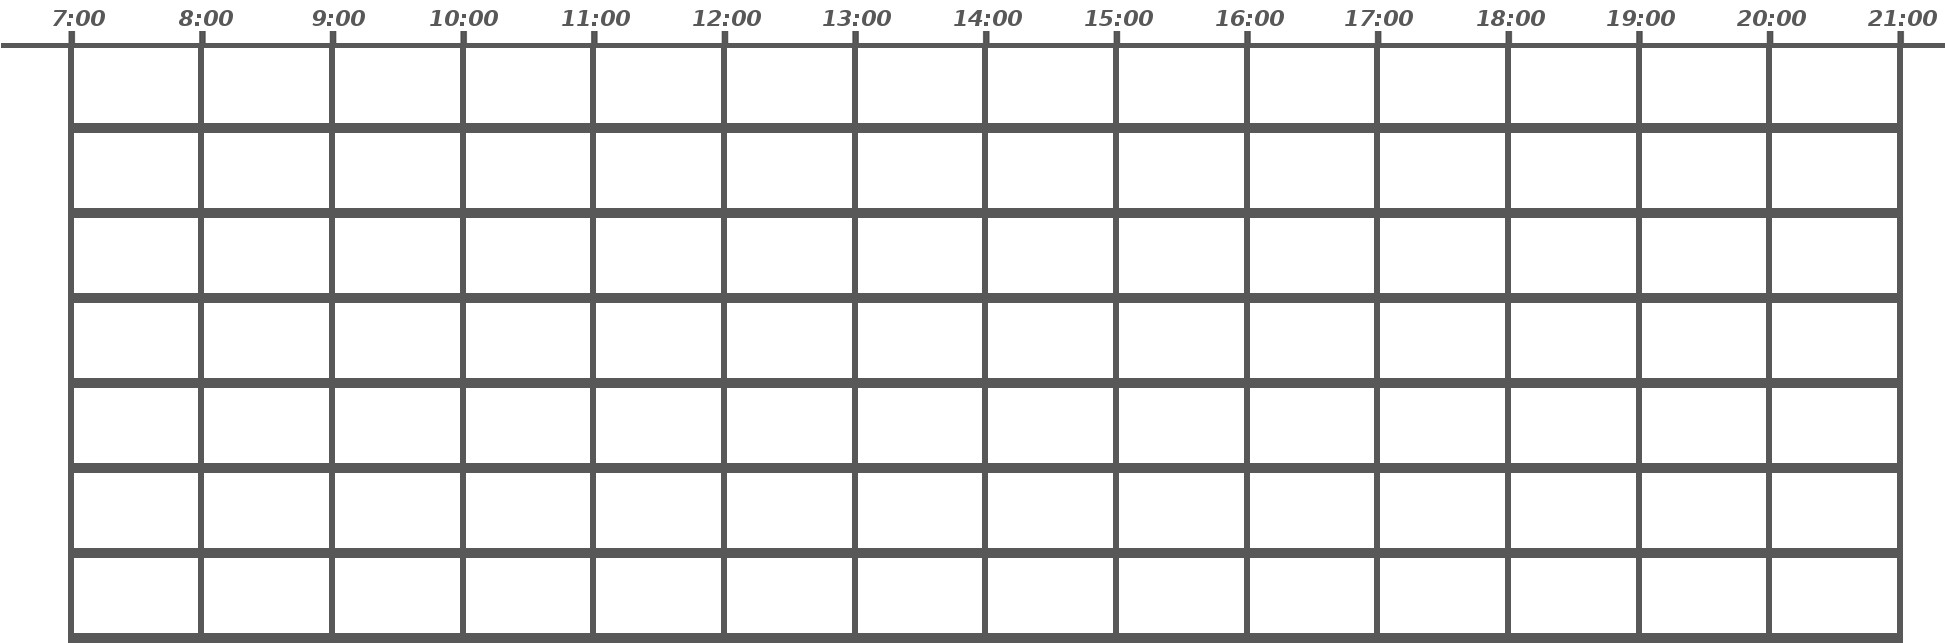
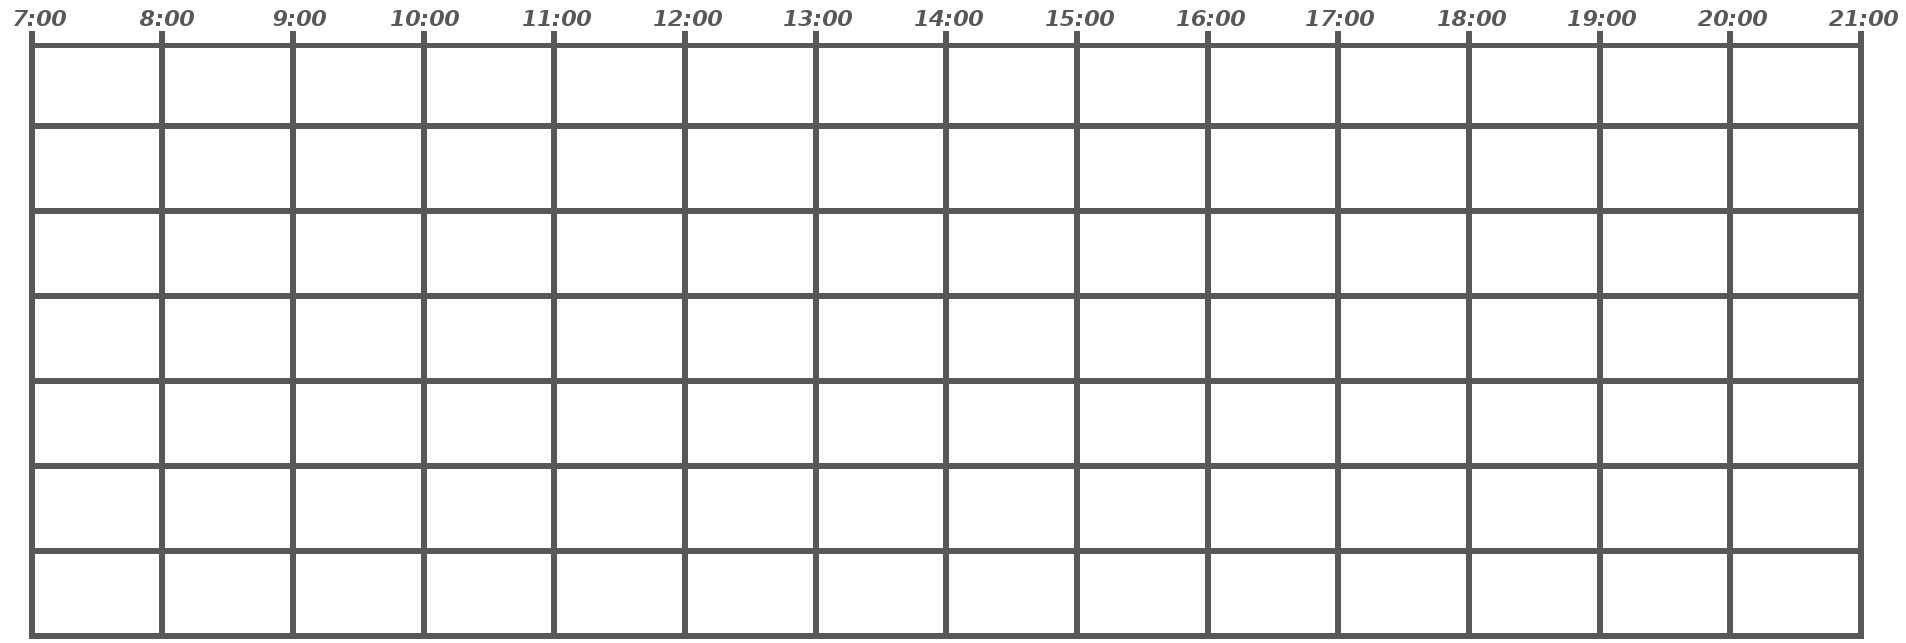
test 2 plany

Changed region(s): [[0.0, 0.0, 0.9906, 1.0], [0.9596, 0.0, 1.0, 0.0933]]

diff --git a/PlanZajec/PlanZajec/Views/Plany2View.xaml b/PlanZajec/PlanZajec/Views/Plany2View.xaml
@@ -1,0 +1,31 @@
+<UserControl x:Class="PlanZajec.Views.Plany2View"
+             xmlns="http://schemas.microsoft.com/winfx/2006/xaml/presentation"
+             xmlns:x="http://schemas.microsoft.com/winfx/2006/xaml"
+             xmlns:mc="http://schemas.openxmlformats.org/markup-compatibility/2006" 
+             xmlns:d="http://schemas.microsoft.com/expression/blend/2008" 
+             xmlns:local="clr-namespace:PlanZajec.Views"
+             mc:Ignorable="d" 
+             d:DesignHeight="300" d:DesignWidth="300">
+    <Grid RowSpan="2">
+        <Grid.RowDefinitions>
+            <RowDefinition Height="*"/>
+            <RowDefinition Height="7*"/>
+            <RowDefinition Height="*"/>
+            <RowDefinition Height="7*"/>
+        </Grid.RowDefinitions>
+        <ScrollViewer Grid.Row="1" HorizontalScrollBarVisibility="Visible" VerticalScrollBarVisibility="Disabled" VerticalAlignment="Stretch" HorizontalAlignment="Stretch"  MinHeight="140">
+            <Grid Width="2000" VerticalAlignment="Stretch" HorizontalAlignment="Stretch">
+                <Grid.Background>
+                    <ImageBrush ImageSource="Images/planGrid2.jpeg"/>
+                </Grid.Background>
+            </Grid>
+        </ScrollViewer>
+        <ScrollViewer Grid.Row="3" HorizontalScrollBarVisibility="Visible" VerticalScrollBarVisibility="Disabled" VerticalAlignment="Stretch" HorizontalAlignment="Stretch"  MinHeight="140">
+            <Grid Width="2000" VerticalAlignment="Stretch" HorizontalAlignment="Stretch">
+                <Grid.Background>
+                    <ImageBrush ImageSource="Images/planGrid2.jpeg"/>
+                </Grid.Background>
+            </Grid>
+        </ScrollViewer>
+    </Grid>
+</UserControl>

diff --git a/PlanZajec/PlanZajec/Views/Plany2View.xaml.cs b/PlanZajec/PlanZajec/Views/Plany2View.xaml.cs
@@ -1,0 +1,18 @@
+using System.Windows.Controls;
+
+namespace PlanZajec.Views
+{
+    /// <summary>
+    /// Interaction logic for Plany2View.xaml
+    /// </summary>
+    public partial class Plany2View : UserControl
+    {
+        public Plany2View()
+        {
+            InitializeComponent();
+        }
+        //TODO Change grid background
+        //BUT IDEA'S OK
+        //TODO think about width image
+    }
+}
